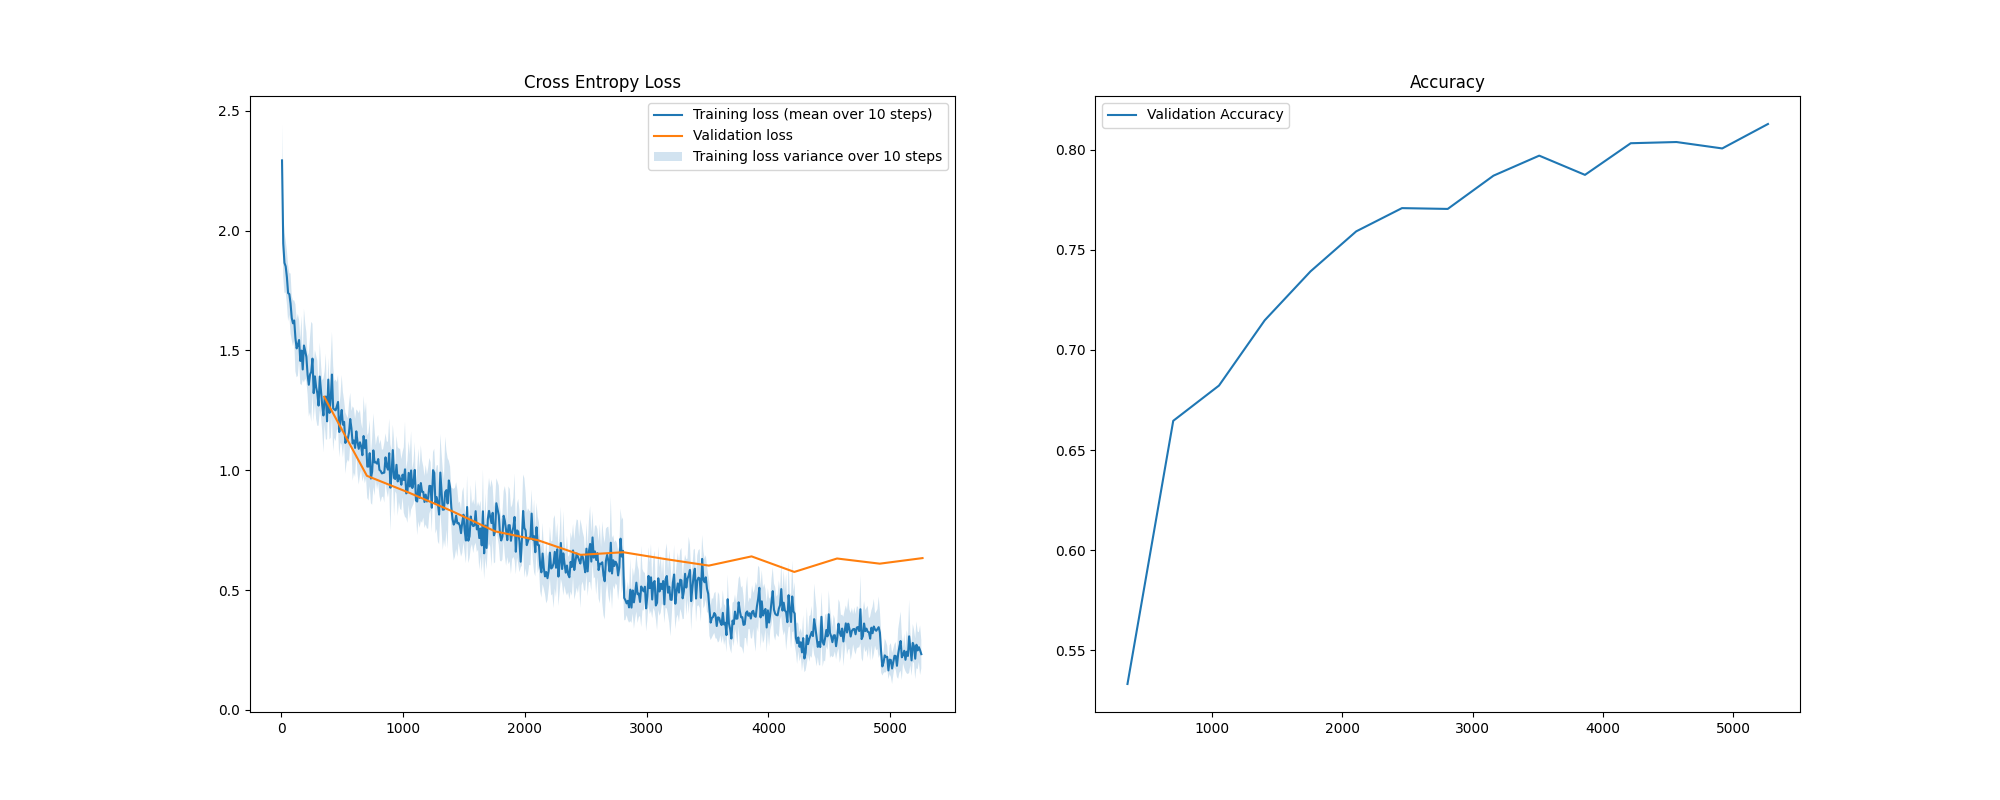
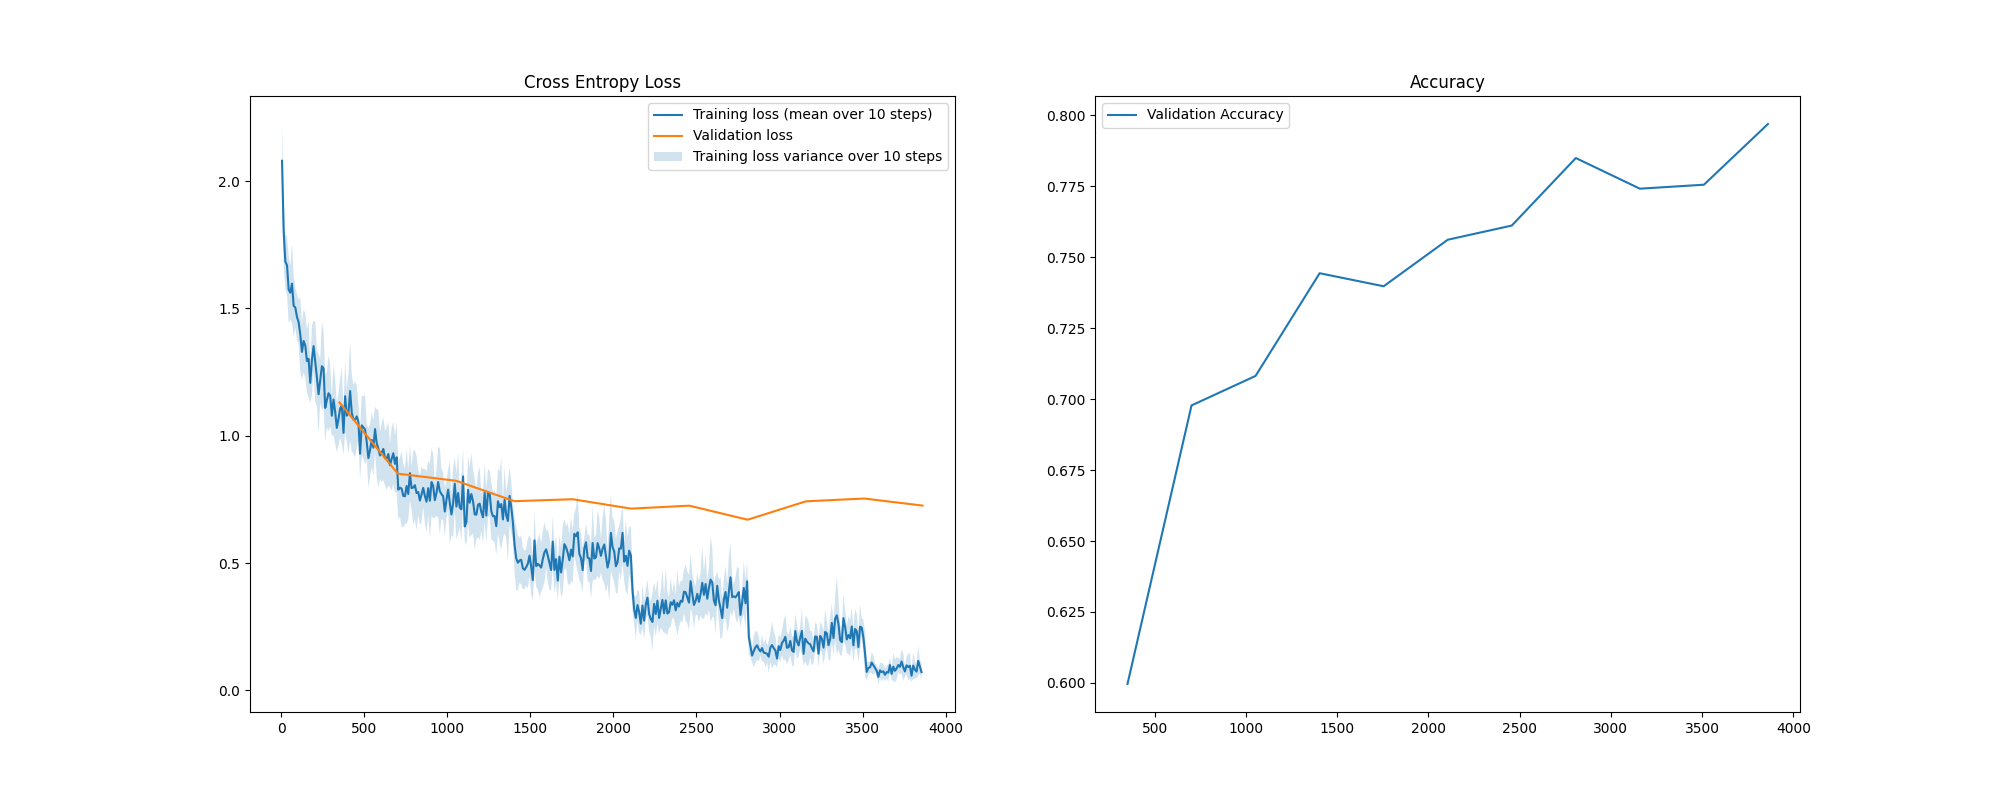
added 3d

diff --git a/task3d.py b/task3d.py
@@ -8,7 +8,7 @@ from dataloaders import load_cifar10
 from trainer import Trainer, compute_loss_and_accuracy
 
 
-class Model1(nn.Module):
+class Model1_with_dropout(nn.Module):
 
     def __init__(self,
                  image_channels,
@@ -82,8 +82,9 @@ class Model1(nn.Module):
         assert out.shape == (batch_size, self.num_classes),\
             f"Expected output of forward pass to be: {expected_shape}, but got: {out.shape}"
         return out
+    
 
-class Model2(nn.Module):
+class Model1_without_dropout(nn.Module):
 
     def __init__(self,
                  image_channels,
@@ -106,35 +107,36 @@ class Model2(nn.Module):
         self.padding = padding
         self.n_filters = n_filters
         
-        # Define the transforms
-        self.transforms = nn.Sequential(
-            transforms.ColorJitter(brightness=(0,2), contrast=(0,2), saturation=(0,2), hue=(-0.5,0.5)),
-            #transforms.Pad(25, padding_mode='symmetric'),
-            transforms.RandomHorizontalFlip(), 
-            transforms.RandomRotation(10)
-        )
 
         # Define the convolutional layers
         self.feature_extractor = nn.Sequential(
             nn.Conv2d(in_channels=image_channels, out_channels=self.n_filters[0], kernel_size=self.kernel_size, stride=1, padding=self.padding),
             nn.ReLU(inplace=True),
+            nn.BatchNorm2d(num_features=self.n_filters[0]),
+            nn.MaxPool2d(kernel_size=2, stride=2),
+            
             nn.Conv2d(in_channels=self.n_filters[0], out_channels=self.n_filters[1], kernel_size=self.kernel_size, stride=1, padding=self.padding),
             nn.ReLU(inplace=True),
+            nn.BatchNorm2d(num_features=self.n_filters[1]),
             nn.MaxPool2d(kernel_size=2, stride=2),
             
             nn.Conv2d(in_channels=self.n_filters[1], out_channels=self.n_filters[2], kernel_size=self.kernel_size, stride=1, padding=self.padding),
             nn.ReLU(inplace=True),
+            nn.BatchNorm2d(num_features=self.n_filters[2]),
             nn.Conv2d(in_channels=self.n_filters[2], out_channels=self.n_filters[3], kernel_size=self.kernel_size, stride=1, padding=self.padding),
             nn.ReLU(inplace=True),
+            nn.BatchNorm2d(num_features=self.n_filters[3]),
             nn.MaxPool2d(kernel_size=2, stride=2)
         )
-        # the feature_extractor outputs [num_classes, n_filters[-1], 4, 4]
-        self.num_output_features = self.n_filters[3]*8*8
-
+        
+        # the feature_extractor outputs [num_classes, 128, 4, 4]
+        self.num_output_features = self.n_filters[3]*4*4
+        
         # Define the fully-connected layers
         self.classifier = nn.Sequential(
             nn.Linear(self.num_output_features, 64),
             nn.ReLU(inplace=True),
+            nn.BatchNorm1d(num_features=64),
             nn.Linear(64, 10)
         )
 
@@ -146,8 +148,7 @@ class Model2(nn.Module):
         """
         batch_size = x.shape[0]
         expected_shape = (batch_size, self.num_classes)
-        
-        out = self.transforms(x)
+
         out = self.feature_extractor(x)
         out = torch.flatten(out, 1)
         out = self.classifier(out)
@@ -155,23 +156,24 @@ class Model2(nn.Module):
         assert out.shape == (batch_size, self.num_classes),\
             f"Expected output of forward pass to be: {expected_shape}, but got: {out.shape}"
         return out
+    
 
-
-
-
-def create_plots(trainer: Trainer, name: str):
+def create_plots(trainer1: Trainer, trainer2: Trainer, name: str):
     plot_path = pathlib.Path("plots")
     plot_path.mkdir(exist_ok=True)
     # Save plots and show them
     plt.figure(figsize=(20, 8))
     plt.subplot(1, 2, 1)
     plt.title("Cross Entropy Loss")
-    utils.plot_loss(trainer.train_history["loss"], label="Training loss", npoints_to_average=10)
-    utils.plot_loss(trainer.validation_history["loss"], label="Validation loss")
+    utils.plot_loss(trainer1.train_history["loss"], label="Training loss (with dropout)", npoints_to_average=10)
+    utils.plot_loss(trainer2.train_history["loss"], label="Training loss", npoints_to_average=10)
+    utils.plot_loss(trainer1.validation_history["loss"], label="Validation loss (with dropout)")
+    utils.plot_loss(trainer2.validation_history["loss"], label="Validation loss")
     plt.legend()
     plt.subplot(1, 2, 2)
     plt.title("Accuracy")
-    utils.plot_loss(trainer.validation_history["accuracy"], label="Validation Accuracy")
+    utils.plot_loss(trainer1.validation_history["accuracy"], label="Validation Accuracy (with dropout)")
+    utils.plot_loss(trainer2.validation_history["accuracy"], label="Validation Accuracy")
     plt.legend()
     plt.savefig(plot_path.joinpath(f"{name}_plot.png"))
     plt.show()
@@ -188,13 +190,13 @@ if __name__ == "__main__":
     dataloaders = load_cifar10(batch_size)
     
     
-    # --- MODEL 1
+    # --- MODEL 1 with dropout
     F = 5
     p = 2
     n_filters = [64, 128, 256, 512]    
     
     # training model1
-    model1 = Model1(
+    model1 = Model1_with_dropout(
         image_channels=3, 
         num_classes=10, 
         kernel_size=F, 
@@ -202,7 +204,7 @@ if __name__ == "__main__":
         n_filters=n_filters
     )
     
-    trainer = Trainer(
+    trainer1 = Trainer(
         batch_size,
         learning_rate,
         early_stop_count,
@@ -210,24 +212,20 @@ if __name__ == "__main__":
         model1,
         dataloaders
     )
-    trainer.train()
-    create_plots(trainer, f"task3_model1")
+    trainer1.train()
     
+    # --- MODEL 1 without dropout
     
-    # --- MODEL 2
+    # training model1
+    model2 = Model1_without_dropout(
+        image_channels=3, 
+        num_classes=10, 
+        kernel_size=F, 
+        padding=p,
+        n_filters=n_filters
+    )
     
-    #parameters to experiment with
-    F = 5
-    p = 2
-    n_filters = [64, 128, 256, 512]
-    
-    # training model2
-    model2 = Model2(image_channels=3, 
-                    num_classes=10, 
-                    kernel_size=F, 
-                    padding=p,
-                    n_filters=n_filters)
-    trainer = Trainer(
+    trainer2 = Trainer(
         batch_size,
         learning_rate,
         early_stop_count,
@@ -235,6 +233,7 @@ if __name__ == "__main__":
         model2,
         dataloaders
     )
-    trainer.train()
-    create_plots(trainer, f"task3_model2")
+    trainer2.train()
     
+    
+    create_plots(trainer1, trainer2, f"task3d")

diff --git a/trainer.py b/trainer.py
@@ -202,6 +202,11 @@ class Trainer:
                     self.save_model()
                     if self.should_early_stop():
                         print("Early stopping.")
+                        # task 2b
+                        train_loss, train_acc = compute_loss_and_accuracy(
+                            self.dataloader_train, self.model, self.loss_criterion
+                        )
+                        print(f'Final training loss: {train_loss:0.2f}, Final train accuracy: {train_acc:0.3f}')  
                         return
 
     def save_model(self):

diff --git a/task2.py b/task2.py
@@ -101,4 +101,4 @@ if __name__ == "__main__":
     create_plots(trainer, "task2")
 
     # task 2b - printing last training accuracy
-    #print(f'Final training accuracy: {list(trainer.train_history["accuracy"].values())[-1]}')
+    #print(f'Final training accuracy: {len(list(trainer.train_history["accuracy"].values()))}')
